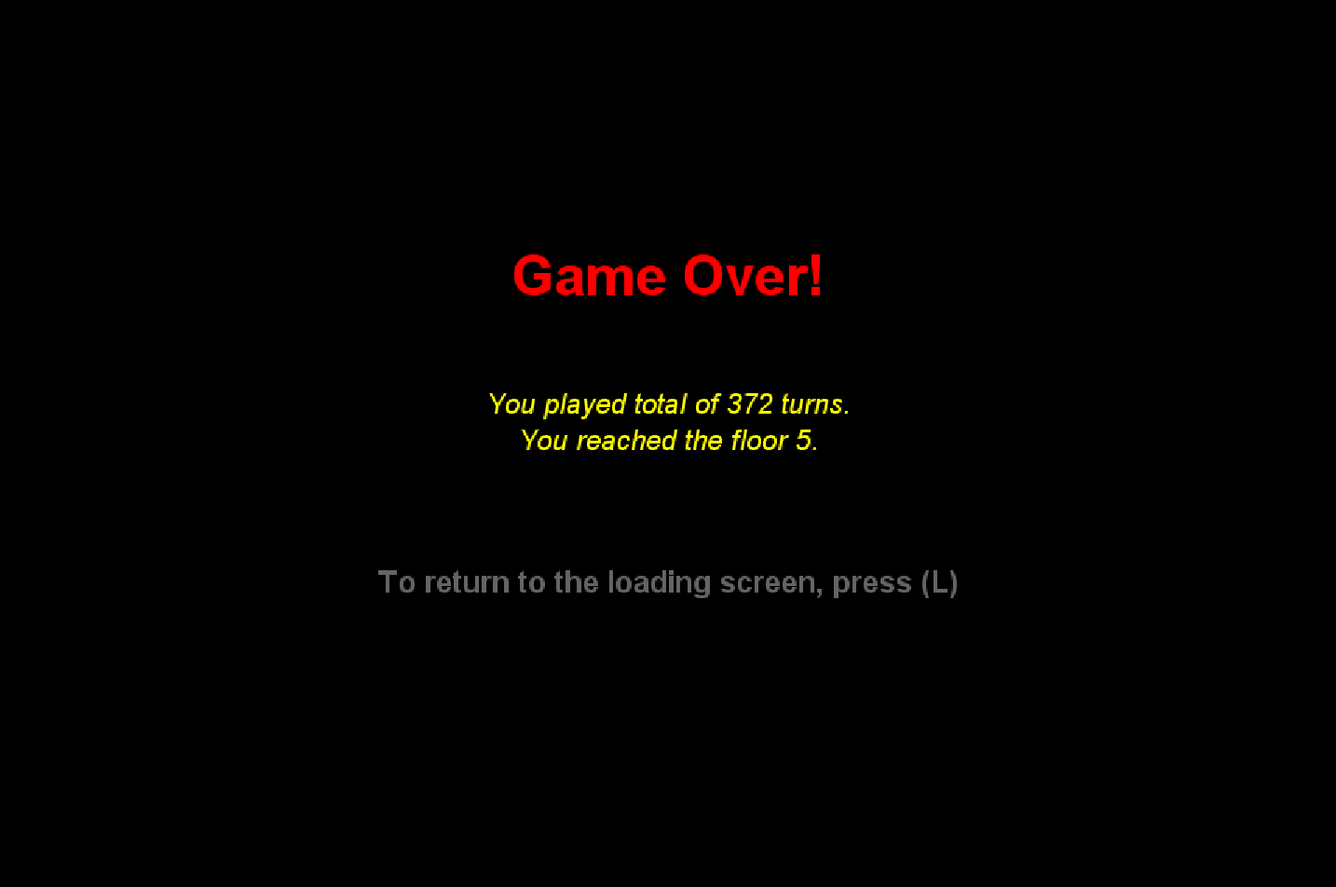
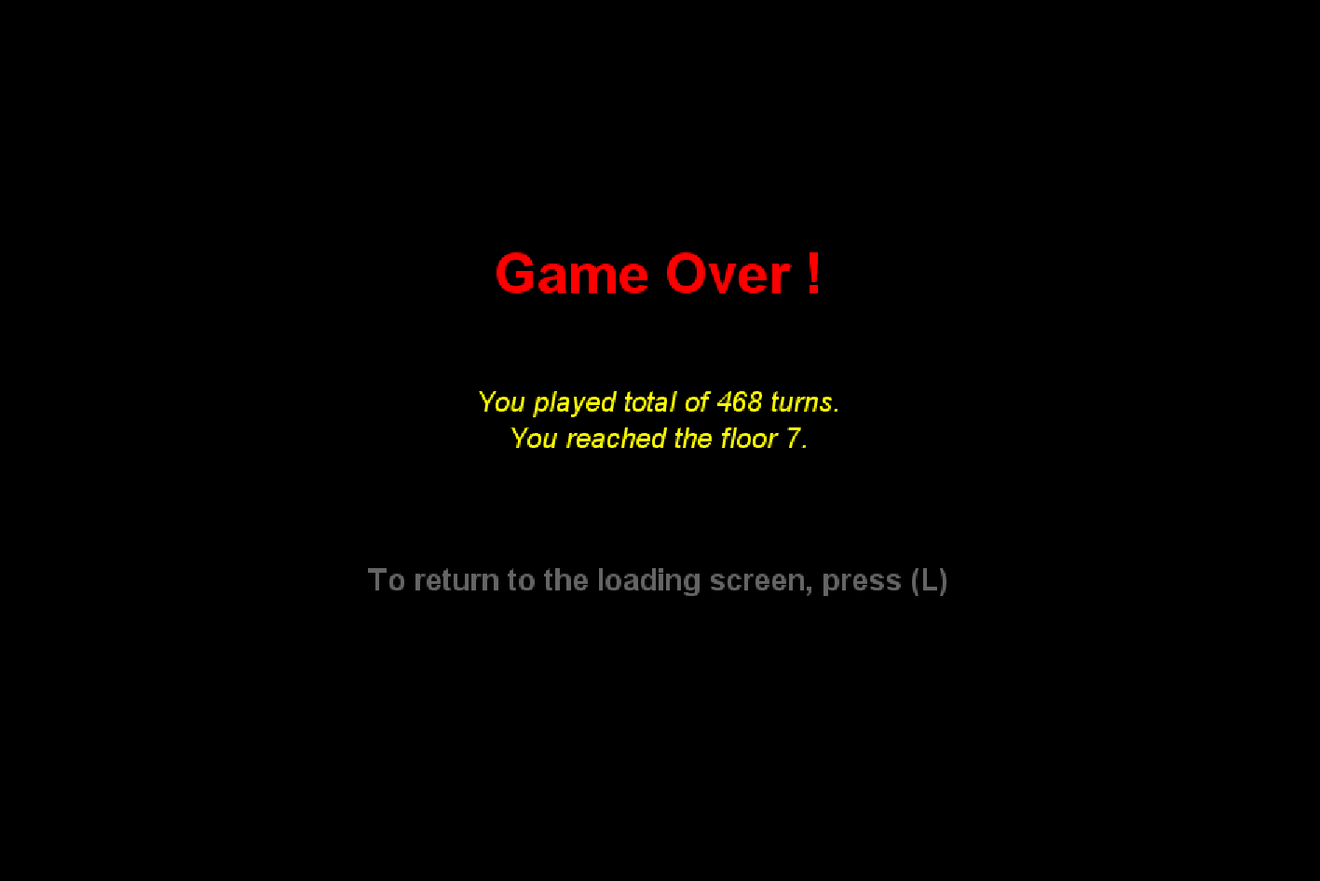
Edit: ReadMe

Changed region(s): [[0.3416, 0.4292, 0.621, 0.5211], [0.3726, 0.2759, 0.621, 0.3372], [0.2795, 0.6438, 0.7142, 0.6744]]

diff --git a/byow/Core/MovingObject/Avatar.java b/byow/Core/MovingObject/Avatar.java
@@ -29,7 +29,7 @@ public class Avatar extends MovingObject implements MovingObjectInterface {
         /* If the Avatar bumps into the ghost object, diminishes HP by value randomly chosen from the
         * Poisson distribution with mean value of 5 + floor * 0.5 */
         if (tiles[x + getXPos()][y + getYPos()].equals(Tileset.GHOST)) {
-            int damage = RandomUtils.poisson(random, 10 + floor * 0.5);
+            int damage = RandomUtils.poisson(random, 10 + floor * 2);
             hp -= damage;
             System.out.println("Boo!! A Ghost attacked you!");
             System.out.println("Your HP decreased by: " + damage);
@@ -61,11 +61,6 @@ public class Avatar extends MovingObject implements MovingObjectInterface {
 
     /** Get HP of the avatar */
     public int getHP() { return hp; }
-
-    /** Set HP of the avatar */
-    public void setHP(int HP) {
-        this.hp = HP;
-    }
 
     /* Get position of the avatar */
     public Position getPosition() {

diff --git a/byow/Core/Graph/getShortestPath.java b/byow/Core/Graph/getShortestPath.java
@@ -36,7 +36,7 @@ public class getShortestPath {
         * The ghost does not move if avatar and the ghost are placed in the same tile. */
         if (sX == tX && sY == tY) { return ' '; }
 
-        char c = 'a';
+        char c = 'a'; // placeholder
         Node updatedSource = source.update(sX, sY, 0, c);
         queue.clear();
         queue.add(updatedSource);

diff --git a/README.md b/README.md
@@ -1,6 +1,6 @@
 <h1 align="center"> Generative Dungeon - Meow and Boo </h1>
 <p align="center">
-    <img alt="Generative Dungeon" title="Generative Dungeon" src="img/sample/playscreen2.png" width="500">
+    <img alt="Generative Dungeon" title="Generative Dungeon" src="img/sample/playscreen.png" width="500">
     <br>
     <i>Sample Game Screen</i>
 </p>
@@ -10,13 +10,10 @@
 # Table of Contents
 
 - [About](#About)
-- [Features](#features)
-- [Feedback](#feedback)
-- [Contributors](#contributors)
-- [Build Process](#build-process)
-- [Backers](#backers-)
-- [Sponsors](#sponsors-)
-- [Acknowledgments](#acknowledgments)
+- [Libraries](#Libraries)
+- [Game Structure](#game-structure)
+- [Implementation](#implementation)
+- [More Game Screens](#more-game-screens)
 
 <!-- END doctoc generated TOC please keep comment here to allow auto update -->
 
@@ -26,7 +23,7 @@
 
 <i> Note: Generative Dungeon -- Meow and Boo is a game that I implemeted from scratch as part of UC Berkeley CS61B - Data Structure, Fall 2022, Final Project.</i> 
 
-This Program uses random seed number passed in through command line argument by the player and randomly generates dungeon. There are two moving objects in the game; a cat and ghosts. The player`s goal is to reach the floor 10 with minimum total step across the floors, acquire as many fish and bump into ghosts as less frequent as possible.
+This Program uses random seed number passed in through command line argument by the player and randomly generates dungeon. There are two moving objects in the game; a cat and ghosts. The player`s goal is to reach as highest floor as possible without being haunted by ghost! -- when your avatar bumps into the ghost, your avatar may receive damage from the ghosts.  
 
 To move up the floor, the player has to find a randomly generated staicaser and step on it, which will take the player to the next randomly generated dungeon floor. As the player moves up the floor, number of rooms, ghosts, fish in the dungeon increase linearly. As of now (<i>v1.0.0</i>), the function of each numbers are as follows;
 
@@ -39,29 +36,29 @@ The player may choose to quit the game, and start a new game or load the game. W
 # Libraries
 ```
 edu.princeton.cs.algs4.*
+org.junit.* 
 
 java.awt.*
 java.io.*
 java.lang.*
 java.util.*
-org.junit.*
 ```
-This projects uses StdDraw class from edu.princeton.cs library as a screen renderer. You may find the details of the StdDraw class implementation <a href = "https://introcs.cs.princeton.edu/java/stdlib/StdDraw.java.html">here</a>.
+This projects uses StdDraw class from edu.princeton.cs library as a screen renderer. You may find the details of the StdDraw class implementation <a href = "https://introcs.cs.princeton.edu/java/stdlib/StdDraw.java.html">here</a>. And you may find the required library to run the program in the library package.
 
 <br>
 
 # Game Structure
-Main class is the main entry point for the program, which simply parses the command line inputs, and lets the byow.Core.Engine class take over. Engine object will initiate Game object which acts as a controller for the game -- generates the dungeon, caches the dungeon to recall when the user loads the game and rendering the screen.
+Main class is the main entry point for the program, which simply parses the command line inputs, and lets the byow.Core.Engine class take over. Engine object will initiate Game object which acts as a controller for the game.
 
 When generateWorld method from the Game object is called in the Engine object, generateWorld class is initiated and the map of the current floor is cached in the 2d array TETile class.
 
 >      TETile object is used to represent a single tile in the world. A 2D array of tiles make up a board, and can be drawn to the screen using the TERenderer class. TETile class can etiher be represented as a character with textcolor, and background color, or image file.
 
-Following the world generation, game starts by calling startGame method in the Game object. When game starts, screen size is set to the given constant variable width and height (WIDTH = 60, HEIGHT = 40, at the time of this record), renders the loading screen until user input is received. User can input 'n', or 'l' or 'q'. 'n' will start a new game, 'l' will load the game when the user has quit the game after having played the game, and 'q' will quit the game.
+Following the world generation, game starts by calling startGame method in the Game object. When game starts, screen size is set to the given constant variable width and height (WIDTH = 60, HEIGHT = 40, at the time of this record), renders the loading screen until user input is received. User can input <i>'N'</i>, or <i>'L'</i> or <i>'Q'</i>. <i>'N'</i> will start a new game, <i>'l'</i> will load the game when the user has quit the game after having played the game, and <i>'Q'</i> will quit the game.
 
-If the user starts a new game after having played the game, this will reset the dungeon floor, number of total steps, fish obtained and load phrase as default value. Load Phrase stores all of the user`s directional inputs ('w': up, 's': down, 'a': left, 'd': right) and store it as a string value. When the user loads the game, the cached phrase is parsed to bring each objects at the place where the user has left off.
+If the user starts a new game after having played the game, this will reset the dungeon floor, number of total steps, fish obtained. When the user loads the game, the cached world state will be called in the TETRenderer class.
 
-Once game is loaded, while the user has not quit the game, update the screen according to the user`s directional input. For every input, number of total steps the player has taken increased by one and load phrase is updated. Avatar object can move within the floor tile, but cannot move past the wall. The avatar can aim to move toward the staircase to climb up the floor while avoid bumping in the ghost objects. Ghost objects moves upto two step for every 2 steps(<i>v1.0.0</i>) that the avatar takes.
+Once game is loaded, while the user has not quit the game, the screen will be updated according to the user`s directional input. For every input, total number of turns the player has taken increases by one. Avatar object can move within the floor tile, but cannot move past the wall. The avatar can aim to move toward the staircase to climb up the floor while avoid bumping in the ghost objects. Ghost objects moves upto two step for every 2 steps(<i>v1.0.0</i>) that the avatar takes.
 
 
 # Implementation
@@ -70,7 +67,7 @@ Once game is loaded, while the user has not quit the game, update the screen acc
 World is generated by creating Rooms, a Staircase, Hallways, an Avatar, Ghosts, and fish in the order.
 
 ### Room Object
-Room object uses HashMap data structure(Key: Position Object, Value: Position Object) to store x, y coordinate of the bottom left corner of the room and the top right of the room as key and value, respectively. When draw all method is called in generateWorld object, drawSingle method is called number of rooms times. Each drawSingle method call will check whether the randomly generated start Position(bottom left x, y coordinate of the room) and the end Position(top right x, y coordinate of the room) is valid. 
+Room object uses HashMap data structure(<i>Key</i>: Position Object, <i>Value</i>: Position Object) to store x, y coordinate of the bottom left corner of the room and the top right of the room as key and value, respectively. When draw all method is called in generateWorld object, drawSingle method is called by the number of rooms times. Each drawSingle method call will check whether the randomly generated start Position(bottom left x, y coordinate of the room) and the end Position(top right x, y coordinate of the room) is valid. 
 
 Start position is valid if the distance of each x and y coordinate between the newly generated position and the previously generated position -- which can be accessed by the roomCreated HashMap data structure -- is larger than 4. End position is created within maximum size of the room; 4(<i>v1.0.0</i>).
 
@@ -82,65 +79,43 @@ Once valid start position and the end position is found, draws the room by repla
 Staircase is an object that can take the avatar up the floor in the dungeon. By stepping on the staircase, new room is generated with varied fish position and the ghosts position. Staircase is created by first finding the valid x, y coordinate in the map. A coordinate is valid if the tile on the x, y coordinate is floor tile. 
 
 ### Hallway Object
-Hallway Object uses the Kruskal`s minimum spanning tree algorithm to find the edges connecting the rooms. Each room is represented by the middle position and the weights of each edge is calculated by summing the difference of x coordinate power of two and the difference of y coordinate. ArrayList of edges from KruskalMST Object is translated into the HashMap of Position on one end of the edge as a keu and Position on the otherside of the edge as a value.
+Hallway Object uses the Kruskal`s minimum spanning tree algorithm to find the edges connecting the rooms. Each room is represented by the middle position and the weights of each edge is calculated by summing the difference of x coordinate power of two and the difference of y coordinate. ArrayList of edges from KruskalMST Object is translated into the HashMap of Position on one end of the edge as a key and Position on the otherside of the edge as a value. For detailed Kruskal Algorithm implementation, check [here](#kruskals-minimum-spanning-tree-algorithm).
 
-Horizontal Hallway is drawn if two Positions in the minimum spanning tree has the same x coordinate. If y coordinate is the same, vertical Hallway is drawn. If both are not the case, L-shaped Hallway is drawn. As a default, horizontal Hallway in the minimum y coordinate value of the two, while vertical Hallway is drawn depending on whether the two Positions are located in the 1st and 3rd quadrant or in the 2nd and 4th quadrant; if 1st and 3rd quadrant, draws on the maximum x value of the two positions, otherwise on the minimum x value of the two positions.
+Horizontal Hallway is drawn if two Positions in the minimum spanning tree has the same x coordinate. If y coordinate is the same, vertical Hallway is drawn. If both are not the case, L-shaped Hallway is drawn. As a default, horizontal Hallway is drawn at the minimum y coordinate value of the two, while vertical Hallway is drawn depending on whether the two Positions are located in the 1st and 3rd quadrant or in the 2nd and 4th quadrant; if 1st and 3rd quadrant, draws on the maximum x value of the two positions, otherwise on the minimum x value of the two positions.
 
-And Wall is added on one tile above and below of the horizontal Hallway and on one tile left and right of the Hallway in case of the vertical Hallway.
+Wall is added on one tile above and below of the horizontal Hallway and on one tile left and right of the Hallway in case of the vertical Hallway.
 
 ### Avatar Object
 Avatar object extends from the MovingObject Class. MovingObject is created randomly on the floor tile. A move for an Avatar is valid if the tile at the requested move location is a floor tile or a staircase tile. An Avatar has a bag where the obtained items are stored.
 
-### Ghost Object
-Ghost object extends from the MovingObject Class. A ghost is created randomly on floor tile. Number of ghosts varies by the floor as described here. An individual Ghost object moves in the shortest path to the Avatar. Shortest path is calculated by
+Avatar receives damage if there is a Ghost object on the tile that the Avatar moves to. The damage that the Avatar receives is randomly decided within the poisson distribution with the mean value linearly increasing from 10 to additional 2 with marginal increase in the floor that the Avatar is in.
 
+Avatar can recover HP by eating the fish that it has acquired. The HP increases randomly within poisson distribution with the mean at 4.5. Avatar can only consume the fish when it has at least one fish in the bag. The fish that the Avatar has obtained is carried forward throughout the dungeon floors.
+
+### Ghost Object
+Ghost object extends from the MovingObject Class. A ghost is created randomly on floor tile. Number of ghosts varies by the floor as described [here](#about). An individual Ghost object moves in the shortest path to the Avatar. Shortest path is calculated by
+Breath First Search. For the detailed implementation of the algorithm, check [here](#graph-algorithms).
 
 ## Graph Algorithms
 ### Kruskal`s Minimum Spanning Tree Algorithm
+I used Priority Queue and WeightedQuickUnionUF data structure from princeton algs4 library for the algorithm. The algorthm first initiates the Priority Queue and adds all the Edges from the graph -- Edge class contains overriding compareTo method that compares the weight of the edge when sorting. Edge with the smallest weight is added to the WeightedQuickUnionUf data structure until either the priority queue is empty or the size of the ArrayList that stores the edges of the minimum spanning tree becomes number of vertex - 1. If adding an edge to the WeightedQuickUnionUF makes the Minimum Spanning Tree connected, that edge is not added to the Minnimum Spanning Tree. 
 
 ### Breath First Search - Shortest Path Algorithm
+This algorithm finds the shortest path from a Ghost to the Avatar by using Queue data strucutre to conduct breath first search on the tiles that can be visited. Tiles can be visited if the tile is not a Nothing tile or a Wall tile or a Stairs tile or a Ghost tile and have not been visited. Initializing a getShortestPath object will create a 2D array of tiles that stores 1 at the tile that cannot be visited and 0 at the tile that can be visited. The queue will be initialized with the Ghost's x, y coordinate as a source and coordinates that can be visited from the source will be added to the queue. Search comes to an end when the ghost reaches the Avatar.  
 
-
-
-
-
-
-
-
-## Build Process
-
-- Follow the [React Native Guide](https://facebook.github.io/react-native/docs/getting-started.html) for getting started building a project with native code. **A Mac is required if you wish to develop for iOS.**
-- Clone or download the repo
-- `yarn` to install dependencies
-- `yarn run link` to link react-native dependencies
-- `yarn start:ios` to start the packager and run the app in the iOS simulator (`yarn start:ios:logger` will boot the application with [redux-logger](<https://github.com/evgenyrodionov/redux-logger>))
-- `yarn start:android` to start the packager and run the app in the the Android device/emulator (`yarn start:android:logger` will boot the application with [redux-logger](https://github.com/evgenyrodionov/redux-logger))
-
-Please take a look at the [contributing guidelines](./CONTRIBUTING.md) for a detailed process on how to build your application as well as troubleshooting information.
-
-**Development Keys**: The `CLIENT_ID` and `CLIENT_SECRET` in `api/index.js` are for development purposes and do not represent the actual application keys. Feel free to use them or use a new set of keys by creating an [OAuth application](https://github.com/settings/applications/new) of your own. Set the "Authorization callback URL" to `gitpoint://welcome`.
-
-## Backers [![Backers on Open Collective](https://opencollective.com/git-point/backers/badge.svg)](#backers)
-
-Thank you to all our backers! 🙏 [[Become a backer](https://opencollective.com/git-point#backer)]
-
-<a href="https://opencollective.com/git-point#backers" target="_blank"><img src="https://opencollective.com/git-point/backers.svg?width=890"></a>
-
-## Sponsors [![Sponsors on Open Collective](https://opencollective.com/git-point/sponsors/badge.svg)](#sponsors)
-
-Support this project by becoming a sponsor. Your logo will show up here with a link to your website. [[Become a sponsor](https://opencollective.com/git-point#sponsor)]
-
-<a href="https://opencollective.com/git-point/sponsor/0/website" target="_blank"><img src="https://opencollective.com/git-point/sponsor/0/avatar.svg"></a>
-<a href="https://opencollective.com/git-point/sponsor/1/website" target="_blank"><img src="https://opencollective.com/git-point/sponsor/1/avatar.svg"></a>
-<a href="https://opencollective.com/git-point/sponsor/2/website" target="_blank"><img src="https://opencollective.com/git-point/sponsor/2/avatar.svg"></a>
-<a href="https://opencollective.com/git-point/sponsor/3/website" target="_blank"><img src="https://opencollective.com/git-point/sponsor/3/avatar.svg"></a>
-<a href="https://opencollective.com/git-point/sponsor/4/website" target="_blank"><img src="https://opencollective.com/git-point/sponsor/4/avatar.svg"></a>
-<a href="https://opencollective.com/git-point/sponsor/5/website" target="_blank"><img src="https://opencollective.com/git-point/sponsor/5/avatar.svg"></a>
-<a href="https://opencollective.com/git-point/sponsor/6/website" target="_blank"><img src="https://opencollective.com/git-point/sponsor/6/avatar.svg"></a>
-<a href="https://opencollective.com/git-point/sponsor/7/website" target="_blank"><img src="https://opencollective.com/git-point/sponsor/7/avatar.svg"></a>
-<a href="https://opencollective.com/git-point/sponsor/8/website" target="_blank"><img src="https://opencollective.com/git-point/sponsor/8/avatar.svg"></a>
-<a href="https://opencollective.com/git-point/sponsor/9/website" target="_blank"><img src="https://opencollective.com/git-point/sponsor/9/avatar.svg"></a>
-
-## More game screen
-
-Thanks to [JetBrains](https://www.jetbrains.com) for supporting us with a [free Open Source License](https://www.jetbrains.com/buy/opensource).
+# More game screens
+<p align="center">
+    <img alt="Load Screen" title="Load Screen" src="img/sample/loadscreen.png" width="500">
+    <br>
+    <i>- Sample Load Screen -</i>
+</p>
+<p align="center">
+    <img alt="Game Over Screen" title="Game Over Screen" src="img/sample/gameoverscreen.png" width="500">
+    <br>
+    <i>- Sample Game Over Screen -</i>
+</p>
+<p align="center">
+    <img alt="highest floor" title="highest floor" src="img/sample/highest.png" width="500">
+    <br>
+    <i>- Highest floor I have reached.. -</i>
+</p>

diff --git a/out/production/proj3/README.md b/out/production/proj3/README.md
@@ -1,6 +1,6 @@
 <h1 align="center"> Generative Dungeon - Meow and Boo </h1>
 <p align="center">
-    <img alt="Generative Dungeon" title="Generative Dungeon" src="img/sample/playscreen2.png" width="500">
+    <img alt="Generative Dungeon" title="Generative Dungeon" src="img/sample/playscreen.png" width="500">
     <br>
     <i>Sample Game Screen</i>
 </p>
@@ -26,7 +26,7 @@
 
 <i> Note: Generative Dungeon -- Meow and Boo is a game that I implemeted from scratch as part of UC Berkeley CS61B - Data Structure, Fall 2022, Final Project.</i> 
 
-This Program uses random seed number passed in through command line argument by the player and randomly generates dungeon. There are two moving objects in the game; a cat and ghosts. The player`s goal is to reach the floor 10 with minimum total step across the floors, acquire as many fish and bump into ghosts as less frequent as possible.
+This Program uses random seed number passed in through command line argument by the player and randomly generates dungeon. There are two moving objects in the game; a cat and ghosts. The player`s goal is to reach as highest floor as possible without being haunted by ghost! -- when your avatar bumps into the ghost, your avatar may receive damage from the ghosts.  
 
 To move up the floor, the player has to find a randomly generated staicaser and step on it, which will take the player to the next randomly generated dungeon floor. As the player moves up the floor, number of rooms, ghosts, fish in the dungeon increase linearly. As of now (<i>v1.0.0</i>), the function of each numbers are as follows;
 
@@ -39,29 +39,29 @@ The player may choose to quit the game, and start a new game or load the game. W
 # Libraries
 ```
 edu.princeton.cs.algs4.*
+org.junit.* 
 
 java.awt.*
 java.io.*
 java.lang.*
 java.util.*
-org.junit.*
 ```
-This projects uses StdDraw class from edu.princeton.cs library as a screen renderer. You may find the details of the StdDraw class implementation <a href = "https://introcs.cs.princeton.edu/java/stdlib/StdDraw.java.html">here</a>.
+This projects uses StdDraw class from edu.princeton.cs library as a screen renderer. You may find the details of the StdDraw class implementation <a href = "https://introcs.cs.princeton.edu/java/stdlib/StdDraw.java.html">here</a>. And you may find the required library to run the program in the library package.
 
 <br>
 
 # Game Structure
-Main class is the main entry point for the program, which simply parses the command line inputs, and lets the byow.Core.Engine class take over. Engine object will initiate Game object which acts as a controller for the game -- generates the dungeon, caches the dungeon to recall when the user loads the game and rendering the screen.
+Main class is the main entry point for the program, which simply parses the command line inputs, and lets the byow.Core.Engine class take over. Engine object will initiate Game object which acts as a controller for the game.
 
 When generateWorld method from the Game object is called in the Engine object, generateWorld class is initiated and the map of the current floor is cached in the 2d array TETile class.
 
 >      TETile object is used to represent a single tile in the world. A 2D array of tiles make up a board, and can be drawn to the screen using the TERenderer class. TETile class can etiher be represented as a character with textcolor, and background color, or image file.
 
-Following the world generation, game starts by calling startGame method in the Game object. When game starts, screen size is set to the given constant variable width and height (WIDTH = 60, HEIGHT = 40, at the time of this record), renders the loading screen until user input is received. User can input 'n', or 'l' or 'q'. 'n' will start a new game, 'l' will load the game when the user has quit the game after having played the game, and 'q' will quit the game.
+Following the world generation, game starts by calling startGame method in the Game object. When game starts, screen size is set to the given constant variable width and height (WIDTH = 60, HEIGHT = 40, at the time of this record), renders the loading screen until user input is received. User can input <i>'N'</i>, or <i>'L'</i> or <i>'Q'</i>. <i>'N'</i> will start a new game, <i>'l'</i> will load the game when the user has quit the game after having played the game, and <i>'Q'</i> will quit the game.
 
-If the user starts a new game after having played the game, this will reset the dungeon floor, number of total steps, fish obtained and load phrase as default value. Load Phrase stores all of the user`s directional inputs ('w': up, 's': down, 'a': left, 'd': right) and store it as a string value. When the user loads the game, the cached phrase is parsed to bring each objects at the place where the user has left off.
+If the user starts a new game after having played the game, this will reset the dungeon floor, number of total steps, fish obtained. When the user loads the game, the cached world state will be called in the TETRenderer class.
 
-Once game is loaded, while the user has not quit the game, update the screen according to the user`s directional input. For every input, number of total steps the player has taken increased by one and load phrase is updated. Avatar object can move within the floor tile, but cannot move past the wall. The avatar can aim to move toward the staircase to climb up the floor while avoid bumping in the ghost objects. Ghost objects moves upto two step for every 2 steps(<i>v1.0.0</i>) that the avatar takes.
+Once game is loaded, while the user has not quit the game, the screen will be updated according to the user`s directional input. For every input, total number of turns the player has taken increases by one. Avatar object can move within the floor tile, but cannot move past the wall. The avatar can aim to move toward the staircase to climb up the floor while avoid bumping in the ghost objects. Ghost objects moves upto two step for every 2 steps(<i>v1.0.0</i>) that the avatar takes.
 
 
 # Implementation
@@ -70,7 +70,7 @@ Once game is loaded, while the user has not quit the game, update the screen acc
 World is generated by creating Rooms, a Staircase, Hallways, an Avatar, Ghosts, and fish in the order.
 
 ### Room Object
-Room object uses HashMap data structure(Key: Position Object, Value: Position Object) to store x, y coordinate of the bottom left corner of the room and the top right of the room as key and value, respectively. When draw all method is called in generateWorld object, drawSingle method is called number of rooms times. Each drawSingle method call will check whether the randomly generated start Position(bottom left x, y coordinate of the room) and the end Position(top right x, y coordinate of the room) is valid. 
+Room object uses HashMap data structure(<i>Key</i>: Position Object, <i>Value</i>: Position Object) to store x, y coordinate of the bottom left corner of the room and the top right of the room as key and value, respectively. When draw all method is called in generateWorld object, drawSingle method is called by the number of rooms times. Each drawSingle method call will check whether the randomly generated start Position(bottom left x, y coordinate of the room) and the end Position(top right x, y coordinate of the room) is valid. 
 
 Start position is valid if the distance of each x and y coordinate between the newly generated position and the previously generated position -- which can be accessed by the roomCreated HashMap data structure -- is larger than 4. End position is created within maximum size of the room; 4(<i>v1.0.0</i>).
 
@@ -82,18 +82,22 @@ Once valid start position and the end position is found, draws the room by repla
 Staircase is an object that can take the avatar up the floor in the dungeon. By stepping on the staircase, new room is generated with varied fish position and the ghosts position. Staircase is created by first finding the valid x, y coordinate in the map. A coordinate is valid if the tile on the x, y coordinate is floor tile. 
 
 ### Hallway Object
-Hallway Object uses the Kruskal`s minimum spanning tree algorithm to find the edges connecting the rooms. Each room is represented by the middle position and the weights of each edge is calculated by summing the difference of x coordinate power of two and the difference of y coordinate. ArrayList of edges from KruskalMST Object is translated into the HashMap of Position on one end of the edge as a keu and Position on the otherside of the edge as a value.
+Hallway Object uses the Kruskal`s minimum spanning tree algorithm to find the edges connecting the rooms. Each room is represented by the middle position and the weights of each edge is calculated by summing the difference of x coordinate power of two and the difference of y coordinate. ArrayList of edges from KruskalMST Object is translated into the HashMap of Position on one end of the edge as a key and Position on the otherside of the edge as a value.
 
-Horizontal Hallway is drawn if two Positions in the minimum spanning tree has the same x coordinate. If y coordinate is the same, vertical Hallway is drawn. If both are not the case, L-shaped Hallway is drawn. As a default, horizontal Hallway in the minimum y coordinate value of the two, while vertical Hallway is drawn depending on whether the two Positions are located in the 1st and 3rd quadrant or in the 2nd and 4th quadrant; if 1st and 3rd quadrant, draws on the maximum x value of the two positions, otherwise on the minimum x value of the two positions.
+Horizontal Hallway is drawn if two Positions in the minimum spanning tree has the same x coordinate. If y coordinate is the same, vertical Hallway is drawn. If both are not the case, L-shaped Hallway is drawn. As a default, horizontal Hallway is drawn at the minimum y coordinate value of the two, while vertical Hallway is drawn depending on whether the two Positions are located in the 1st and 3rd quadrant or in the 2nd and 4th quadrant; if 1st and 3rd quadrant, draws on the maximum x value of the two positions, otherwise on the minimum x value of the two positions.
 
-And Wall is added on one tile above and below of the horizontal Hallway and on one tile left and right of the Hallway in case of the vertical Hallway.
+Wall is added on one tile above and below of the horizontal Hallway and on one tile left and right of the Hallway in case of the vertical Hallway.
 
 ### Avatar Object
 Avatar object extends from the MovingObject Class. MovingObject is created randomly on the floor tile. A move for an Avatar is valid if the tile at the requested move location is a floor tile or a staircase tile. An Avatar has a bag where the obtained items are stored.
 
-### Ghost Object
-Ghost object extends from the MovingObject Class. A ghost is created randomly on floor tile. Number of ghosts varies by the floor as described here. An individual Ghost object moves in the shortest path to the Avatar. Shortest path is calculated by
+Avatar receives damage if there is a Ghost object on the tile that the Avatar moves to. The damage that the Avatar receives is randomly decided within the poisson distribution with the mean value linearly increasing from 10 to additional 2 with marginal increase in the floor that the Avatar is in.
 
+Avatar can recover HP by eating the fish that it has acquired. The HP increases randomly within poisson distribution with the mean at 4.5. Avatar can only consume the fish when it has at least one fish in the bag. The fish that the Avatar has obtained is carried forward throughout the dungeon floors.
+
+### Ghost Object
+Ghost object extends from the MovingObject Class. A ghost is created randomly on floor tile. Number of ghosts varies by the floor as described [here](#about). An individual Ghost object moves in the shortest path to the Avatar. Shortest path is calculated by
+Breath First Search. For the detailed implementation of the algorithm, check [here](#graph-algorithms)
 
 ## Graph Algorithms
 ### Kruskal`s Minimum Spanning Tree Algorithm
